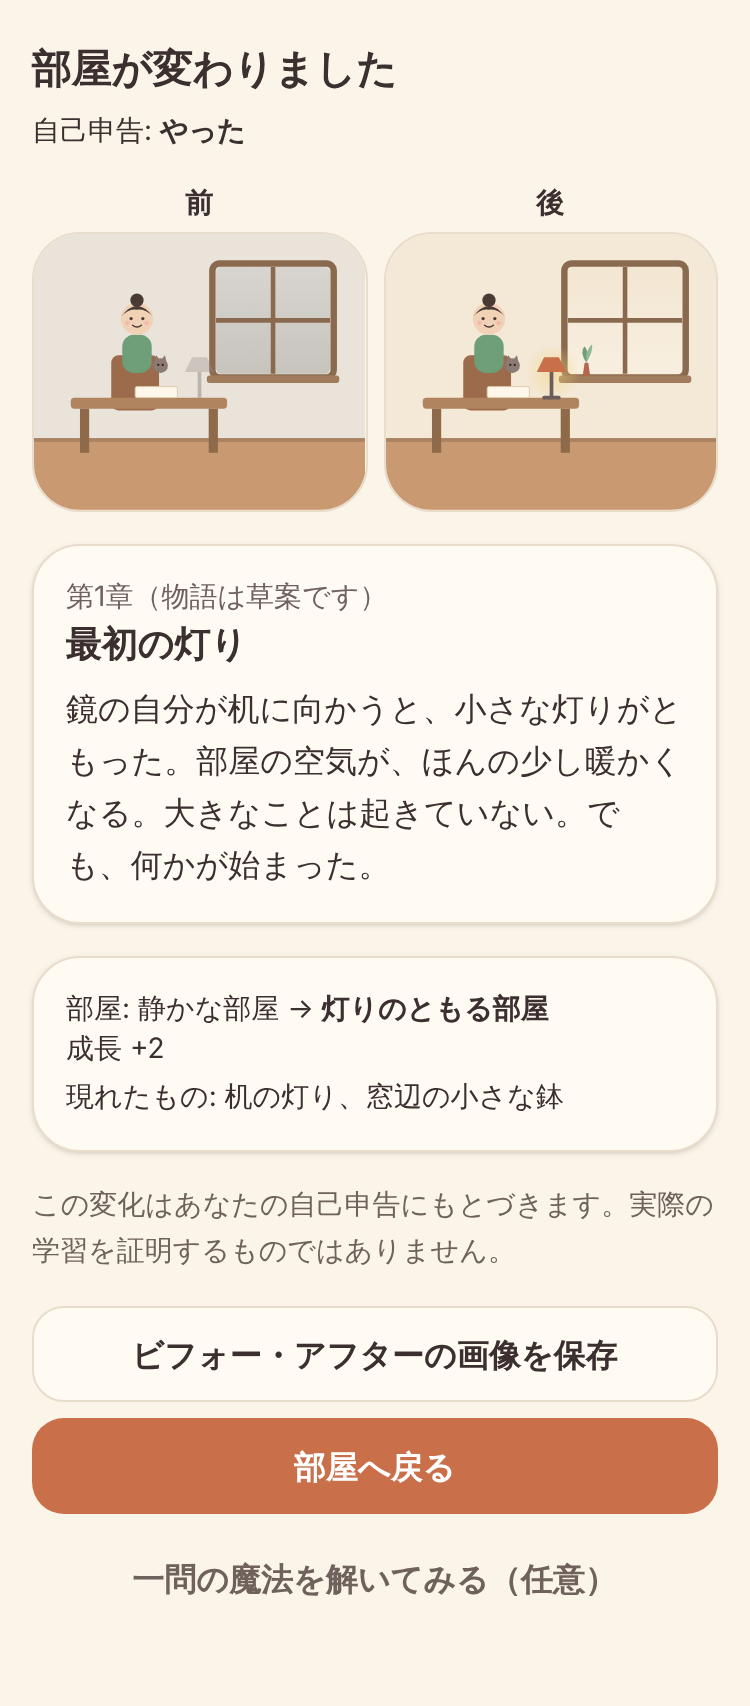
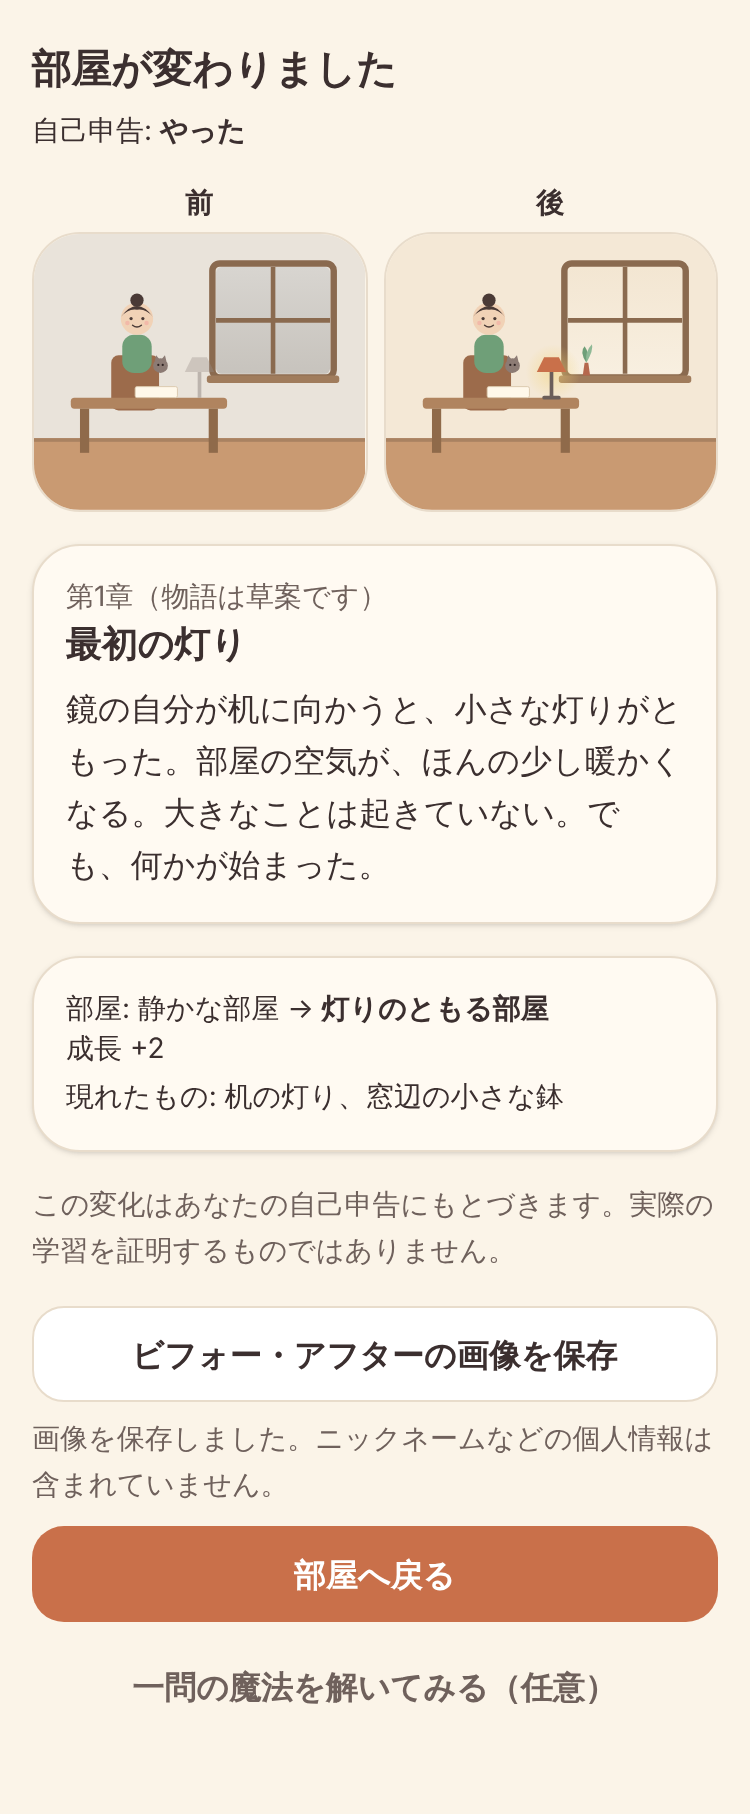
画像の共有（Web Share 対応端末のみ・本人操作）、CI、セキュリティ確認の記録を追加
- 変化画面: Web Share API でファイル共有できる端末でだけ「共有」ボタンを表示。
  画像にニックネームを含めない。非対応環境では非表示（E2E で確認）
- 画像保存の E2E: PNG 生成と保存完了の表示までを確認
- GitHub Actions: typecheck / lint / unit → E2E（Chromium）
- docs/05: 依存脆弱性 0 件、HTML 直挿入なし、アプリコードに外部通信なし、
  保存データ破損・オフライン復帰の確認を記録

Claude-Session: https://claude.ai/code/session_01TEHZJDHAs9678v4oDnJQFv

diff --git a/src/app/change/page.tsx b/src/app/change/page.tsx
@@ -1,6 +1,6 @@
 "use client";
 
-import { useRef, useState } from "react";
+import { useRef, useState, useSyncExternalStore } from "react";
 import { useGame } from "@/game/store/GameProvider";
 import { useRouteGuard } from "@/components/useRouteGuard";
 import { MirrorRoom } from "@/components/MirrorRoom";
@@ -9,6 +9,19 @@ import { objectName, ROOM_STAGES } from "@/game/content/roomStages";
 import { CAPPED_NOTE, STORY_IS_DRAFT } from "@/game/content/story";
 import { REPORT_LABEL } from "@/game/content/labels";
 import { dayKeyOf } from "@/game/logic/time";
+
+const subscribeNoop = () => () => {};
+
+function detectFileShare(): boolean {
+  const nav = navigator as Navigator & { canShare?: (data: ShareData) => boolean };
+  try {
+    if (typeof nav.share !== "function" || typeof nav.canShare !== "function") return false;
+    const probe = new File([new Blob([""], { type: "image/png" })], "probe.png", { type: "image/png" });
+    return nav.canShare({ files: [probe] });
+  } catch {
+    return false;
+  }
+}
 
 async function svgToImage(svg: SVGSVGElement): Promise<HTMLImageElement> {
   const xml = new XMLSerializer().serializeToString(svg);
@@ -32,15 +45,16 @@ export default function ChangePage() {
   const beforeRef = useRef<SVGSVGElement>(null);
   const afterRef = useRef<SVGSVGElement>(null);
   const [saveMessage, setSaveMessage] = useState<string | null>(null);
+  // Web Share API（ファイル共有）に対応した端末でだけ共有ボタンを出す。共有は本人の明示操作のみ。
+  const canShare = useSyncExternalStore(subscribeNoop, detectFileShare, () => false);
 
   if (!ok || !state.player || !state.lastChange) return <Loading />;
   const change = state.lastChange;
   const world = state.world;
   const beforeObjects = world.unlockedObjects.filter((id) => !change.newObjects.includes(id));
 
-  const saveImage = async () => {
-    try {
-      if (!beforeRef.current || !afterRef.current) throw new Error("no svg");
+  const renderImage = async (): Promise<Blob> => {
+    if (!beforeRef.current || !afterRef.current) throw new Error("no svg");
       const [a, b] = await Promise.all([svgToImage(beforeRef.current), svgToImage(afterRef.current)]);
       const w = 360;
       const h = 300;
@@ -63,6 +77,12 @@ export default function ChangePage() {
       ctx.fillText("受験生の鏡 — 自己申告にもとづく部屋の変化", pad, canvas.height - 12);
       const blob = await new Promise<Blob | null>((resolve) => canvas.toBlob(resolve, "image/png"));
       if (!blob) throw new Error("no blob");
+      return blob;
+  };
+
+  const saveImage = async () => {
+    try {
+      const blob = await renderImage();
       const url = URL.createObjectURL(blob);
       const link = document.createElement("a");
       link.href = url;
@@ -72,6 +92,18 @@ export default function ChangePage() {
       setSaveMessage("画像を保存しました。ニックネームなどの個人情報は含まれていません。");
     } catch {
       setSaveMessage("この端末では画像を保存できませんでした。");
+    }
+  };
+
+  const shareImage = async () => {
+    try {
+      const blob = await renderImage();
+      const file = new File([blob], `kagami-${dayKeyOf(clock.now())}.png`, { type: "image/png" });
+      await navigator.share({ files: [file], title: "受験生の鏡", text: "閉じるほど、物語が動き出す。" });
+      setSaveMessage("共有しました。画像に個人情報は含まれていません。");
+    } catch (e) {
+      if (e instanceof Error && e.name === "AbortError") return; // 本人が取り消した
+      setSaveMessage("この端末では共有できませんでした。画像の保存をお試しください。");
     }
   };
 
@@ -134,6 +166,11 @@ export default function ChangePage() {
         <Button variant="secondary" onClick={saveImage} data-testid="save-image">
           ビフォー・アフターの画像を保存
         </Button>
+        {canShare ? (
+          <Button variant="secondary" onClick={shareImage} data-testid="share-image">
+            画像を共有する（自分で選んだ相手にだけ）
+          </Button>
+        ) : null}
         {saveMessage ? <Note role="status">{saveMessage}</Note> : null}
         <LinkButton href="/room" variant="primary">
           部屋へ戻る

diff --git a/e2e/flow.spec.ts b/e2e/flow.spec.ts
@@ -20,7 +20,10 @@ test.describe("縦切り: 鏡の部屋 → 出発 → 帰還 → 変化", () => 
       serviceWorkers: "allow",
     });
     context.on("request", (req) => {
-      if (!req.url().startsWith(baseURL ?? "")) externalRequests.push(req.url());
+      const url = req.url();
+      // blob: / data: は端末内で生成した画像（保存用）。外部送信ではない
+      if (url.startsWith("blob:") || url.startsWith("data:")) return;
+      if (!url.startsWith(baseURL ?? "")) externalRequests.push(url);
     });
     page = await context.newPage();
   });
@@ -95,6 +98,11 @@ test.describe("縦切り: 鏡の部屋 → 出発 → 帰還 → 変化", () => 
     await expect(page.getByTestId("story-title")).not.toBeEmpty();
     await expect(page.getByTestId("growth-delta")).toHaveText("成長 +2");
     await expect(page.getByTestId("after-stage")).toHaveText("灯りのともる部屋");
+    // Web Share 非対応環境（この Chromium）では共有ボタンを出さない。保存ボタンは押しても落ちない
+    const shareSupported = await page.evaluate(() => typeof navigator.share === "function" && typeof navigator.canShare === "function");
+    await expect(page.getByTestId("share-image")).toHaveCount(shareSupported ? 1 : 0);
+    await page.getByTestId("save-image").click();
+    await expect(page.getByRole("status")).toContainText(/保存しました|保存できませんでした/);
     await shot(page, "08-change");
     await page.getByRole("link", { name: "部屋へ戻る" }).click();
 

diff --git a/docs/05-test-report.md b/docs/05-test-report.md
@@ -54,13 +54,26 @@
 - 読み上げソフトでの読み上げ順序、フォーカス移動の自然さ
 - 320px 幅などさらに小さい端末
 - 色覚多様性の専門家確認
-- 画像保存（Canvas → PNG）の実機動作。E2E ではボタンの存在のみ確認し、ダウンロードは検証していない
+- 画像保存の実機動作。E2E では保存ボタンを押して PNG 生成と「保存しました」の表示までを確認したが、端末への保存先と共有（Web Share）は未検証
 - 音（実験）の実機での聴感・音量・バッテリー影響。E2E は設定の ON/OFF と保存のみ
 - 学習問題 30 問の内容の正誤（監修者による確認）
 - 10 人のユーザーテスト（設計書 11 章の仮基準）
 - AI 会話、SNS 共有、サーバー時刻、実ユーザーデータの集計（星図は架空データのみ）
 
-## 5. デモ動画用の操作シナリオ（約 2 分）
+## 5. セキュリティ・堅牢性の確認（設計書 12 章、2026-10-29 時点）
+
+| 項目 | 方法 | 結果 |
+| --- | --- | --- |
+| 依存ライブラリの脆弱性 | `npm audit`（本番依存・開発依存とも） | 0 件 |
+| XSS | `src/` と `public/sw.js` で `dangerouslySetInnerHTML` / `innerHTML` / `eval` を検索 | 使用なし。表示は React のエスケープに依存 |
+| CSRF | サーバーへの送信フォーム・Cookie・認証がそもそも存在しない | 該当なし |
+| 外部通信 | `src/` で `fetch` / `XMLHttpRequest` / `WebSocket` / `sendBeacon` を検索。E2E で全リクエストを監視 | アプリコードに通信なし。Service Worker の `fetch` は同一オリジンの静的ファイルのみ |
+| 保存データの破損 | `isGameState` で形を検証し、壊れたレコードは初期状態として扱う（単体テスト） | 自動テストで確認 |
+| オフライン復帰 | E2E 14-6（オフライン再読込 → オンライン復帰 → 新規タブ） | 自動テストで確認 |
+| 第三者 SDK・分析タグ | 依存は next / react / react-dom のみ（本番） | なし。Next.js のビルド時テレメトリも無効化 |
+| SNS 共有 | Web Share API（ファイル共有）対応端末でのみボタンを表示し、本人の操作でのみ共有。画像にニックネームを含めない | 非対応環境では非表示であることを E2E で確認。対応端末での動作は未検証 |
+
+## 6. デモ動画用の操作シナリオ（約 2 分）
 
 1. `npm run build && npm run start` で http://127.0.0.1:3100 を開く（スマホ幅のエミュレーションを推奨）。
 2. 導入: 約束を読み、ニックネームを空のまま「はじめる」。
@@ -69,7 +82,7 @@
 5. 作戦会議: 3 案から「数学を10分」などを選び、時間を +5 して「現実へ出発」。
 6. 出発中: 「この画面は閉じて大丈夫」を見せ、ブラウザを閉じて開き直す（出発中が続く）。
 7. 帰還: 「やった」を選び、ひとことを入れて「鏡を見る」。
-8. 変化: 前 / 後の部屋、第 1 章の物語、「成長 +2」、現れたもの。画像保存ボタンを押す。
+8. 変化: 前 / 後の部屋、第 1 章の物語、「成長 +2」、現れたもの。画像保存ボタンを押す（対応端末では共有ボタンも出る）。
 9. 部屋へ戻る: 灯りのともる部屋（段階 1）。
 10. もう一度作戦会議 → 「休息する」を選んで出発 → 帰還 → 「今日は休んだ」。成長 +1 とひざ掛け、物語を見せる（罰がないことの説明）。
 11. 一問の魔法（任意）: 「デモ（監修前）」の表示を見せ、1 問答えて解説と「どう考えましたか」を見せる。部屋に戻っても成長が変わらないことを示す。
